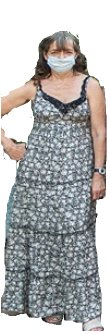
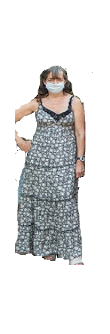
add functioning messageBoard and moving character

diff --git a/Character.java b/Character.java
@@ -20,13 +20,20 @@ public class Character extends Actor
      */
     public void act() 
     {
-        readMessage();
-        MyWorld.mb1.printOut("Hello, World");
-        
+        //readMessage();
+        //MyWorld.mb1.printOut("Hello, World");
+        walk();
         // Add your action code here.
     }   
     public void walk(){
-        System.out.println("here well walk");
+        if(Greenfoot.isKeyDown("left")){
+            setRotation(0);
+            move(5); 
+        }
+        else if(Greenfoot.isKeyDown("right")){
+            setRotation(0);
+            move(-5); 
+        }
     }
     public void talkWith(){
         System.out.println("here well have the talk with");

diff --git a/messageBoard.java b/messageBoard.java
@@ -19,7 +19,7 @@ public class messageBoard extends Actor
     public void act() 
     {
         
-        printOut("*insert Megalovania at this point");
+        //printOut("*insert Megalovania at this point");
     }
     public void printOut(String toDraw){
                

diff --git a/endboss.java b/endboss.java
@@ -19,7 +19,7 @@ public class endboss extends Actor
         protected void addedToWorld(World world)
     {
 
-        setImage("images/hoffmann.png");
+        setImage("images/hoffmann.PNG");
         world = getWorld();
 
     }
